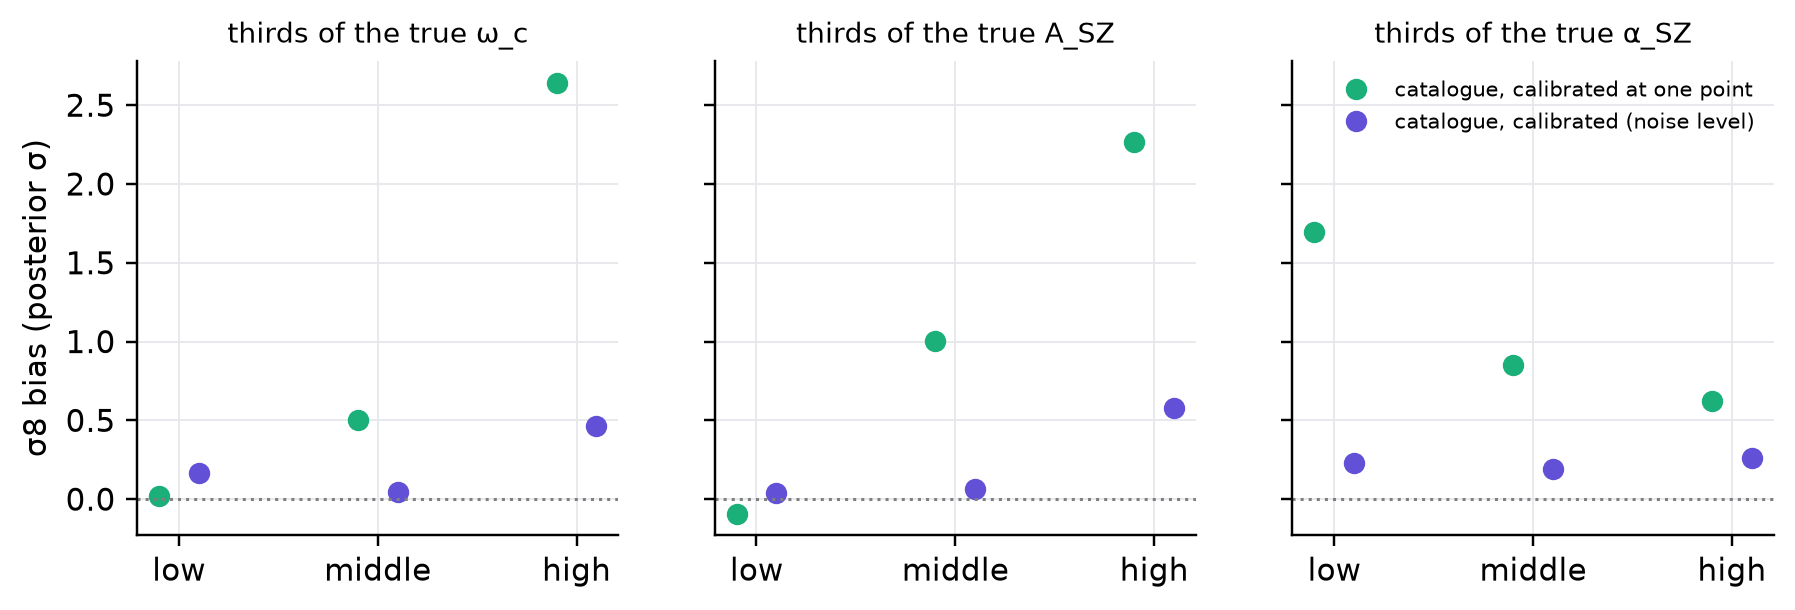
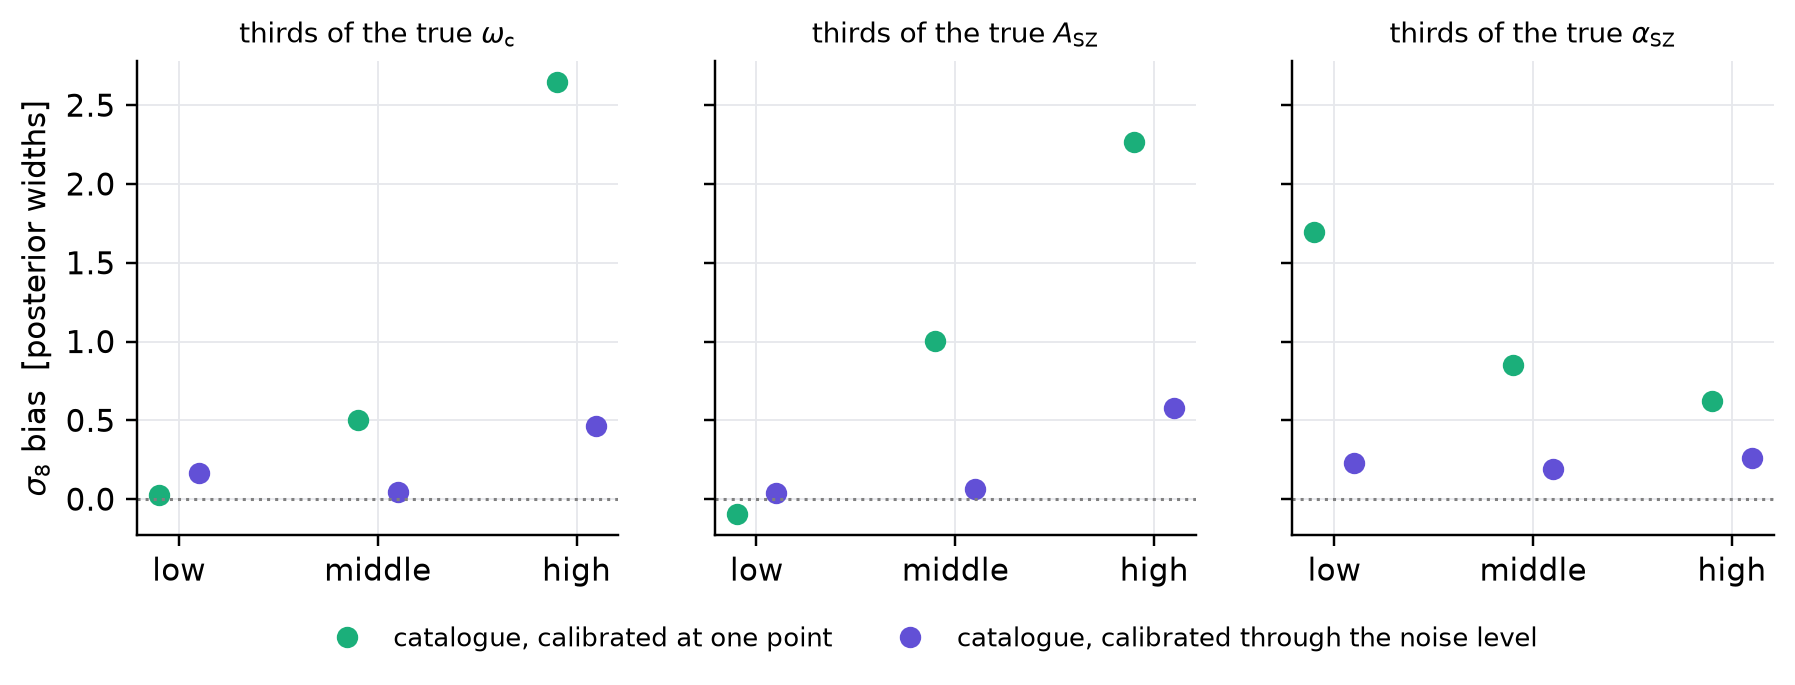
docs: noise level at 2.7' (not 2'), network counts in the coverage caption, measured growth of the bias with area; figures with mathtext labels, readable ticks and exact bin edges

diff --git a/docs/clusters/make_figures.py b/docs/clusters/make_figures.py
@@ -25,6 +25,7 @@ import sys
 
 import numpy as np
 import matplotlib
+import matplotlib.ticker
 
 matplotlib.use("Agg")
 import matplotlib.pyplot as plt  # noqa: E402
@@ -34,13 +35,24 @@ HERE = os.path.dirname(os.path.abspath(__file__))
 FIG = os.path.join(HERE, "figures")
 C = dict(map="#2a78d6", published="#eb6834", point="#1baf7a", noise="#6250d6", theta="#52514e", ink="#14171c")
 LABEL = dict(map="map level", published="catalogue, as published", point="catalogue, calibrated at one point",
-             theta="catalogue, calibrated (linear in θ)", noise="catalogue, calibrated (noise level)")
-P4 = ["σ8", "ω_c", "A_SZ", "α_SZ"]
-NAMES10 = ["σ8", "ω_c", "A_SZ", "α_SZ", "h", "ω_b", "n_s", "σ_SZ", "β_lens", "σ_lens"]
+             theta=r"catalogue, calibrated (linear in $\theta$)", noise="catalogue, calibrated through the noise level")
+P4 = [r"$\sigma_8$", r"$\omega_\mathrm{c}$", r"$A_\mathrm{SZ}$", r"$\alpha_\mathrm{SZ}$"]
+NAMES10 = P4 + [r"$h$", r"$\omega_\mathrm{b}$", r"$n_\mathrm{s}$", r"$\sigma_\mathrm{SZ}$", r"$\beta_\mathrm{lens}$",
+                r"$\sigma_\mathrm{lens}$"]
+# numbers.json keys of the thirds (kept as they were) and their mathtext labels
+THIRDS = (("ω_c", r"$\omega_\mathrm{c}$"), ("A_SZ", r"$A_\mathrm{SZ}$"), ("α_SZ", r"$\alpha_\mathrm{SZ}$"))
+WIDTHS = "bias  [posterior widths]"
 plt.rcParams.update({"figure.dpi": 220, "savefig.dpi": 220, "font.size": 10, "axes.spines.top": False,
                      "axes.spines.right": False, "axes.grid": True, "grid.color": "#e6e8ec", "grid.linewidth": 0.6,
                      "legend.frameon": False, "savefig.bbox": "tight", "savefig.facecolor": "white"})
 NUM = {}
+
+
+def plain_log_ticks(axis, ticks):
+    """Explicit major ticks with plain labels on a log axis, and no minor labels."""
+    axis.set_major_locator(matplotlib.ticker.FixedLocator(ticks))
+    axis.set_major_formatter(matplotlib.ticker.FixedFormatter([f"{t:g}" for t in ticks]))
+    axis.set_minor_formatter(matplotlib.ticker.NullFormatter())
 
 
 def save(fig, name):
@@ -82,7 +94,7 @@ def fig_tile():
     o = tile.stages(log=lambda *a: None)
     down = lambda a: a.reshape(600, 2, 600, 2).mean((1, 3))
     o = dict(o, y=o["y"] * 1e5)
-    panels = [("y", "Compton-y × 10⁵ (painted halos)", "magma", 0, float(np.quantile(o["y"], 0.9995))),
+    panels = [("y", r"Compton-$y$ $\times 10^5$ (painted haloes)", "magma", 0, float(np.quantile(o["y"], 0.9995))),
               ("tsz145", "145 GHz: tSZ [μK]", "RdBu_r", -200, 200), ("cmb145", "145 GHz: CMB [μK]", "RdBu_r", -200, 200),
               ("noise145", "145 GHz: noise [μK]", "RdBu_r", -200, 200), ("m145", "145 GHz: sum [μK]", "RdBu_r", -200, 200),
               ("q_first", "S/N, first pass", "viridis", -3, 8), ("mask", "masking-pass discs", "gray", 0, 1),
@@ -91,11 +103,12 @@ def fig_tile():
     for a, (k, t, cm, lo, hi) in zip(ax.ravel(), panels):
         im = a.imshow(down(o[k]), cmap=cm, vmin=lo, vmax=hi, origin="lower", extent=[0, 10, 0, 10])
         a.set_title(t, fontsize=9); a.set_xticks([]); a.set_yticks([]); a.grid(False)
-        if k not in ("mask",):
-            fig.colorbar(im, ax=a, fraction=0.046, pad=0.02).ax.tick_params(labelsize=7)
-    fig.suptitle("One 10° × 10° tile at the true parameters, 2019 forecast noise (goal)", fontsize=10)
+        cb = fig.colorbar(im, ax=a, fraction=0.046, pad=0.02); cb.ax.tick_params(labelsize=7)
+        if k == "mask":
+            cb.ax.set_visible(False)                  # keeps the panel the same size as the others
+    fig.suptitle(r"One 10° $\times$ 10° tile at the true parameters, 2019 forecast noise (goal)", fontsize=10, y=0.95)
     save(fig, "tile_stages.png")
-    # zoom with detections and halos
+    # zoom with detections and haloes
     p, h = o["peaks"], o["halos"]
     S = 240
     best, b0 = -1, (0, 0)
@@ -117,13 +130,13 @@ def fig_tile():
               edgecolors="#ffd166", lw=1.2, label="detection, confirmed")
     a.scatter((p["x"][pm & ~p["confirmed"]] - x0) * s, (p["y"][pm & ~p["confirmed"]] - y0) * s, marker="s", s=40, facecolors="none",
               edgecolors="#ff5c8a", lw=1.2, label="detection, no halo within 1.5′")
-    a.plot([], [], ls="--", color="gray", lw=0.8, label="halo with model q > 2 (radius θ500)")
+    a.plot([], [], ls="--", color="gray", lw=0.8, label=r"halo with model $q > 2$ (radius $\theta_{500}$)")
     a.set_xlabel("degrees"); a.set_ylabel("degrees")
     a.legend(loc="upper center", bbox_to_anchor=(0.5, -0.12), ncol=2, fontsize=7.5)
-    a.set_title("S/N after masking, 2° zoom: detections and halos", fontsize=9)
+    a.set_title("S/N after masking, 2° zoom: detections and haloes", fontsize=9)
     save(fig, "tile_zoom.png")
     NUM["tile"] = dict(halos=int(len(h["z"])), detections5=int(np.sum(p["confirmed"] & (p["q"] > 5))),
-                       noise_ratio_2arcmin=float(o["sigma_final"][7] / o["sigma_model"][7]),
+                       noise_ratio_u=float(o["sigma_final"][7] / o["sigma_model"][7]),
                        noise_ratio_first=float(o["sigma_first"][7] / o["sigma_model"][7]))
     return o
 
@@ -139,8 +152,8 @@ def fig_noise(R, o):
     a.plot(th, o["sigma_first"] / o["sigma_model"], color=C["published"], lw=1.8, ls="--", label="first pass, before masking (one tile)")
     a.axhline(1, color="gray", ls=":", lw=1.2, label="instrument + CMB only (catalogue model)")
     a.set_xscale("log"); a.set_xticks([0.5, 1, 2, 4, 8, 15]); a.set_xticklabels(["0.5′", "1′", "2′", "4′", "8′", "15′"])
-    a.set_xlabel("filter size θ"); a.set_ylabel("σ_finder / σ_instrument+CMB"); a.set_ylim(0.97, 1.34)
-    a.legend(fontsize=8.5, loc="upper left")
+    a.set_xlabel(r"filter size $\theta$"); a.set_ylabel(r"$\sigma_\mathrm{finder}/\sigma_\mathrm{instrument+CMB}$"); a.set_ylim(0.97, 1.34)
+    a.legend(fontsize=8.5, loc="center", bbox_to_anchor=(0.5, 0.47))     # between the two curves
     save(fig, "finder_noise.png")
     NUM["noise"] = dict(ratio_mean=ratio_fid.mean(0).round(3).tolist())
 
@@ -151,12 +164,12 @@ def fig_grid(R):
     u = g["sigma"][:, :, 7].mean(1) / g["sigma"][0, :, 7].mean()
     P = g["theta"]
     fig, ax = plt.subplots(1, 2, figsize=(10.5, 3.8))
-    for a, (c, lab) in zip(ax, ((1, "search lift k"), (2, "scatter w"))):
+    for a, (c, lab) in zip(ax, ((1, r"search lift $k$"), (2, r"scatter $w$"))):
         sc = a.scatter(u, g["rows"][:, 1, c], c=P[:, 2], cmap="cividis", s=36, edgecolors="k", linewidths=0.3)
         a.scatter(u[0], g["rows"][0, 1, c], s=140, facecolors="none", edgecolors="#d03b3b", lw=1.5, label="the true parameters")
-        a.set_xlabel("finder noise at 2′, relative to the true parameters"); a.set_ylabel(lab + "  (0.31 < z < 0.61)")
+        a.set_xlabel("finder noise at 2.7′ relative to the true parameters"); a.set_ylabel(lab + r"  ($0.31 < z < 0.61$)")
         a.legend(fontsize=8.5, loc="upper right" if c == 1 else "upper left")
-    cb = fig.colorbar(sc, ax=ax, fraction=0.025, pad=0.02); cb.set_label("A_SZ of the point")
+    cb = fig.colorbar(sc, ax=ax, fraction=0.025, pad=0.02); cb.set_label(r"$A_\mathrm{SZ}$ of the point")
     save(fig, "calibration_grid.png")
     NUM["grid"] = dict(noise_range=[float(u.min()), float(u.max())], k_range=[float(g["rows"][:, 1, 1].min()), float(g["rows"][:, 1, 1].max())],
                        w_range=[float(g["rows"][:, 1, 2].min()), float(g["rows"][:, 1, 2].max())])
@@ -185,18 +198,19 @@ def fig_relation(R):
     ok = np.isfinite(rows[:, 4])
     a.fill_between(rows[ok, 0], rows[ok, 3], rows[ok, 5], color=C["map"], alpha=0.25, lw=0)
     a.plot(rows[ok, 0], rows[ok, 4], color=C["map"], lw=2, label="finder: median and 16–84%")
-    a.plot([3, 50], [3, 50], color=C["published"], ls="--", label="catalogue model: q_obs = q")
+    a.plot([3, 50], [3, 50], color=C["published"], ls="--", label=r"catalogue model: $q_\mathrm{obs} = q$")
     a.set_xscale("log"); a.set_yscale("log"); a.set_xlim(3, 50); a.set_ylim(3, 50)
-    a.set_xlabel("catalogue model's q of the halo"); a.set_ylabel("finder's q (detected)"); a.legend(fontsize=8)
-    a.set_title("Observed q against the model's q, halo by halo", fontsize=9)
+    plain_log_ticks(a.xaxis, [3, 4, 6, 10, 20, 40]); plain_log_ticks(a.yaxis, [3, 4, 6, 10, 20, 40])
+    a.set_xlabel(r"catalogue model's $q$ of the halo"); a.set_ylabel(r"finder's $q_\mathrm{obs}$ (detected)"); a.legend(fontsize=8)
+    a.set_title(r"Observed $q_\mathrm{obs}$ against the model's $q$, halo by halo", fontsize=9)
     a = ax[1]
     qs = np.geomspace(1.5, 12, 100)
-    a.plot(qs, norm.cdf(qs - 5), color=C["published"], lw=1.8, label="catalogue model Φ(q − 5)")
+    a.plot(qs, norm.cdf(qs - 5), color=C["published"], lw=1.8, label=r"catalogue model $\Phi(q - 5)$")
     m = rows[:, 0] < 12
     a.scatter(rows[m, 0], rows[m, 2], color=C["map"], s=18, zorder=3, label="finder on maps")
-    a.set_xscale("log"); a.set_xticks([2, 3, 5, 8, 12]); a.set_xticklabels(["2", "3", "5", "8", "12"])
-    a.set_xlabel("catalogue model's q of the halo"); a.set_ylabel("P(detected with q > 5)"); a.legend(fontsize=8)
-    a.set_title("Chance of a detection above q = 5", fontsize=9)
+    a.set_xscale("log"); plain_log_ticks(a.xaxis, [2, 3, 4, 6, 8, 12])
+    a.set_xlabel(r"catalogue model's $q$ of the halo"); a.set_ylabel(r"$P$(detected with $q_\mathrm{obs} > 5$)"); a.legend(fontsize=8)
+    a.set_title(r"Chance of a detection above $q_\mathrm{obs} = 5$", fontsize=9)
     save(fig, "finder_relation.png")
 
 
@@ -204,7 +218,10 @@ def fig_counts(R):
     m = np.load(os.path.join(R, "maps_npe_forecast", "truth.npz"))["x"][:, :20]
     out = {}
     fig, ax = plt.subplots(1, 2, figsize=(9.4, 3.0))
-    for a, (name, d, title) in zip(ax, [("published", "forecast41", "as published"), ("noise", "calibcf41", "calibrated (noise level)")]):
+    from classy_szlite.sim.summaries import Q_EDGES, Z_EDGES     # the data vector's bin edges
+    zlab = [f"{e:.2f}" for e in Z_EDGES]
+    qlab = [f"{e:.1f}".removesuffix(".0") for e in Q_EDGES]
+    for a, (name, d, title) in zip(ax, [("published", "forecast41", "as published"), ("noise", "calibcf41", "calibrated through the noise level")]):
         c = np.load(os.path.join(R, "catalogue_npe", d, "truth.npz"))["x"][:, :20]
         r = (m.mean(0) / c.mean(0)).reshape(4, 5)
         out[name] = r.round(3).tolist()
@@ -212,10 +229,10 @@ def fig_counts(R):
         for i in range(4):
             for j in range(5):
                 a.text(j, i, f"{r[i, j]:.2f}", ha="center", va="center", fontsize=8)
-        a.set_xticks(range(5)); a.set_xticklabels(["0.0–0.3", "0.3–0.6", "0.6–0.9", "0.9–1.2", "1.2–1.5"], fontsize=7)
-        a.set_yticks(range(4)); a.set_yticklabels(["5–8.4", "8.4–14", "14–24", "24–40"], fontsize=7)
-        a.set_xlabel("redshift"); a.set_ylabel("q"); a.grid(False)
-        a.set_title(f"map-level mocks / catalogue model {title}", fontsize=9)
+        a.set_xticks(np.arange(6) - 0.5); a.set_xticklabels(zlab, fontsize=8)      # ticks on the bin edges
+        a.set_yticks(np.arange(5) - 0.5); a.set_yticklabels(qlab, fontsize=8)
+        a.set_xlabel(r"redshift $z$"); a.set_ylabel(r"$q_\mathrm{obs}$"); a.grid(False)
+        a.set_title(f"map-level mocks / catalogue model\n{title}", fontsize=9)
     fig.colorbar(im, ax=ax, fraction=0.025, pad=0.02)
     save(fig, "counts_ratio.png")
     NUM["counts"] = out
@@ -244,8 +261,8 @@ def fig_bias(R):
         a.axhline(0, color="gray", ls=":", lw=1)
         a.set_xticks(range(4)); a.set_xticklabels(P4); a.set_title(title, fontsize=9)
         a.set_ylim(-9, 3.5)
-    ax[0].set_ylabel("(posterior mean − truth) / posterior σ")
-    ax[1].legend(fontsize=7.5, loc="lower left")
+    ax[0].set_ylabel(WIDTHS)
+    ax[0].legend(fontsize=7.5, loc="lower left")         # the left panel has room below the points
     save(fig, "bias.png")
     NUM["bias"] = res
 
@@ -275,7 +292,7 @@ def fig_coverage(R):
                     a.plot(np.r_[0, LEV, 1], np.r_[0, cc[k][:, jj], 1], color=C[k], lw=2, ls="--" if k == "theta" else "-", label=LABEL[k])
             a.set_title(f"{P4[jj]}, {sky}", fontsize=9.5)
             if row == 1:
-                a.set_xlabel("credible level")
+                a.set_xlabel(r"credible level $\gamma$")
         ax[row, 0].set_ylabel("fraction of skies covered")
     h, l = ax[0, 0].get_legend_handles_labels()
     fig.legend(h, l, loc="lower center", ncol=4, fontsize=8.5, bbox_to_anchor=(0.5, -0.04))
@@ -287,16 +304,18 @@ def fig_coverage(R):
         s = summary(os.path.join(R, sets[k]))
         b = (s["mu"] - s["theta"]) / s["sd"]
         th[k] = {}
-        for jj, nm in ((1, "ω_c"), (2, "A_SZ"), (3, "α_SZ")):
+        for jj, (nm, _) in enumerate(THIRDS, 1):
             e = np.quantile(s["theta"][:, jj], [0, 1 / 3, 2 / 3, 1])
             th[k][nm] = [float(b[(s["theta"][:, jj] >= lo) & (s["theta"][:, jj] <= hi), 0].mean()) for lo, hi in zip(e[:-1], e[1:])]
     fig, ax = plt.subplots(1, 3, figsize=(9.6, 2.8), sharey=True)
-    for a, nm in zip(ax, ("ω_c", "A_SZ", "α_SZ")):
+    for a, (nm, tex) in zip(ax, THIRDS):
         for off, k in ((-0.1, "point"), (0.1, "noise")):
             a.plot(np.arange(3) + off, th[k][nm], "o", color=C[k], label=LABEL[k])
         a.axhline(0, color="gray", ls=":", lw=1); a.set_xticks(range(3)); a.set_xticklabels(["low", "middle", "high"])
-        a.set_title(f"thirds of the true {nm}", fontsize=9)
-    ax[0].set_ylabel("σ8 bias (posterior σ)"); ax[-1].legend(fontsize=7)
+        a.set_title(f"thirds of the true {tex}", fontsize=9)
+    ax[0].set_ylabel(r"$\sigma_8$ " + WIDTHS)
+    h, l = ax[0].get_legend_handles_labels()
+    fig.legend(h, l, loc="upper center", ncol=2, fontsize=8.5, bbox_to_anchor=(0.5, 0.0))
     save(fig, "bias_thirds.png")
     NUM["thirds"] = th
 
@@ -312,7 +331,7 @@ def fig_ensemble(R):
     b, e = bias(ensemble(files))
     a.errorbar(np.arange(4) + 0.24, b[:4], yerr=e[:4], fmt="D", ms=6, color=C["ink"], label="ensemble of the five")
     a.axhline(0, color="gray", ls=":", lw=1.2)
-    a.set_xticks(range(4)); a.set_xticklabels(P4); a.set_ylabel("bias (posterior σ)"); a.legend(fontsize=8.5)
+    a.set_xticks(range(4)); a.set_xticklabels(P4); a.set_ylabel(WIDTHS); a.legend(fontsize=8.5, loc="lower center", bbox_to_anchor=(0.5, 1.0), ncol=2)
     save(fig, "ensemble.png")
 
 
@@ -325,7 +344,7 @@ def corner(post, name, truth=None, rng=None):
         return np.c_[s[:, 0], om, s[:, 2], s[:, 3]]
     post = {k: four(v) for k, v in post.items()}
     truth = truth or [0.811, (0.121 + 0.0222 + nu) / 0.674 ** 2, -4.3054, 1.1233]
-    lab = ["σ8", "Ω_m", "A_SZ", "α_SZ"]
+    lab = [P4[0], r"$\Omega_\mathrm{m}$", P4[2], P4[3]]
     if rng is None:                                   # every posterior's 0.2-99.8% range and the truth, padded
         rng = []
         for i in range(4):

diff --git a/docs/clusters/results.md b/docs/clusters/results.md
@@ -40,8 +40,9 @@ Mean over 100 mocks of (posterior mean − truth) / posterior standard deviation
 | calibrated through the noise level (5) | +0.05 ± 0.07 | +0.21 ± 0.04 | −0.03 ± 0.06 | +0.67 ± 0.07 |
 | map level (5) | −0.11 ± 0.08 | +0.10 ± 0.04 | −0.05 ± 0.06 | +0.03 ± 0.06 |
 
-The published model's bias grows with the survey by a factor of about 1.5 (posteriors narrow by less than
-2, because the six Gaussian-prior parameters do not narrow). The shifts in $\sigma_8$ and $\Omega_m$
+The published model's bias grows with the survey by a factor of about 1.5. Its shift hardly changes with the
+area (in $\sigma_8$ +0.0115 at 10% and +0.0103 at 40.7%; in $\alpha_\mathrm{SZ}$ −0.086 and −0.084), while the
+posteriors get 1.3–1.7 times narrower, not 2 as four times the area would suggest. The shifts in $\sigma_8$ and $\Omega_m$
 partly cancel in $S_8$ (−0.30 widths at 10%).
 
 ## The posterior at 40% of the sky
@@ -55,9 +56,9 @@ partly cancel in $S_8$ (−0.30 widths at 10%).
   marginals; black: the true values.</figcaption>
 </figure>
 
-This is what a survey of SO's size would see. With four times the area, every posterior is about half as wide
-as at 10% of the sky, and the published catalogue model's errors stand out: on this mock it gives
-$\sigma_8 = 0.823 \pm 0.004$ against a true 0.811 (3.3 widths), $\alpha_\mathrm{SZ} = 1.034 \pm 0.011$ against
+This is what a survey of SO's size would see. With four times the area, every posterior is 1.3–1.7 times narrower
+than at 10% of the sky, and the published catalogue model's errors stand out: on this mock it gives
+$\sigma_8 = 0.823 \pm 0.004$ against a true 0.811 (3.4 widths), $\alpha_\mathrm{SZ} = 1.034 \pm 0.011$ against
 1.123 (8 widths), and $\Omega_m$ and $A_\mathrm{SZ}$ low, the degenerate directions that let it explain too few
 bright clusters with a shallower mass slope. The three other posteriors agree with each other and contain the
 truth: $\sigma_8 = 0.812 \pm 0.003$ at map level. On a single mock at the true parameters the calibrated
@@ -72,9 +73,10 @@ cannot show.
   <figcaption>Coverage on 500 map-level skies drawn from the prior: the fraction of skies whose true value lies
   in the central credible interval, against the interval's level, for each of the four parameters, at 10%
   (top) and 40.7% of the sky (bottom). Dotted: the diagonal of a calibrated posterior; below it, the posterior
-  is overconfident. Map-level and noise-level curves are ensembles of five networks; at 40.7% the model
-  calibrated at one point is one network, and the published model was not run on these skies (its posteriors
-  fall outside the prior box).</figcaption>
+  is overconfident. At 10% of the sky the map-level curves are ensembles of five networks and every
+  catalogue-model curve is one network; at 40.7% the map-level and noise-level curves are ensembles of five
+  networks, the model calibrated at one point is one network, and the published model was not run on these
+  skies (its posteriors fall outside the prior box).</figcaption>
 </figure>
 
 A single bias at the true parameters can hide a posterior that is wrong elsewhere; coverage over the prior

diff --git a/docs/clusters/calibration.md b/docs/clusters/calibration.md
@@ -60,8 +60,8 @@ over the flat box (5 mocks each), keeping the halo tables for later refits.
   ![The calibration at 25 points of the prior](figures/calibration_grid.png)
   <figcaption>The calibration at the 25 points (the true parameters, circled, and a Latin hypercube of 24 over
   the flat prior), in the redshift bin 0.31–0.61: the search lift k (left) and the scatter w (right), each
-  fitted on 5 map-level mocks, against the finder's noise at 2′ relative to its value at the true parameters.
-  Colour: the point's A_SZ.</figcaption>
+  fitted on 5 map-level mocks, against the finder's noise at 2.7′ (the eighth of the 15 filter sizes)
+  relative to its value at the true parameters. Colour: the point's A_SZ.</figcaption>
 </figure>
 
 The finder's noise moves by −5% to +13% across the prior: more tSZ on the sky (higher $A_\mathrm{SZ}$,
@@ -81,7 +81,9 @@ $$
 $$
 
 **Through the finder's noise level** (`calibrated-noise`, `fit_noise_level`). Every part of the calibration
-follows one number closely, the noise level $u = \ln[\sigma_\mathrm{finder}(2';\boldsymbol\theta)/\sigma_\mathrm{finder}(2';\boldsymbol\theta_\mathrm{fid})]$:
+follows one number closely, the noise level
+$u = \ln[\sigma_\mathrm{finder}(2.7';\boldsymbol\theta)/\sigma_\mathrm{finder}(2.7';\boldsymbol\theta_\mathrm{fid})]$,
+at the eighth of the 15 filter sizes (2.74′):
 
 $$
 u(\boldsymbol\theta) = \sum_m a_m\,\phi_m(\boldsymbol x),\ \ \phi \in \{1, x_i, x_i x_j\};\qquad
